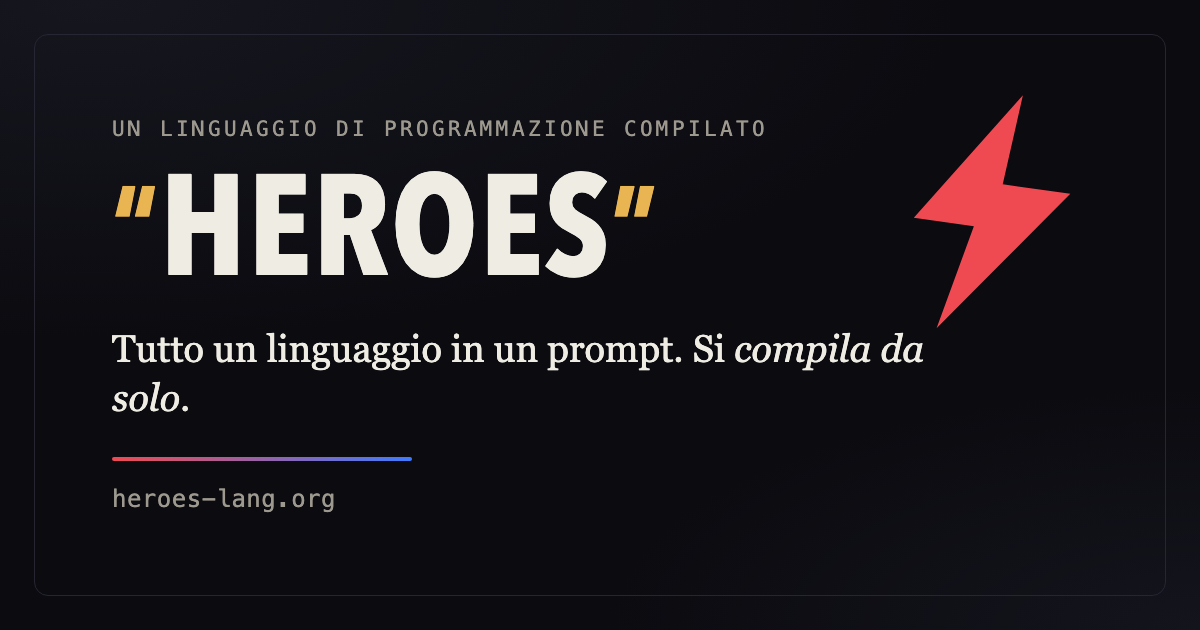
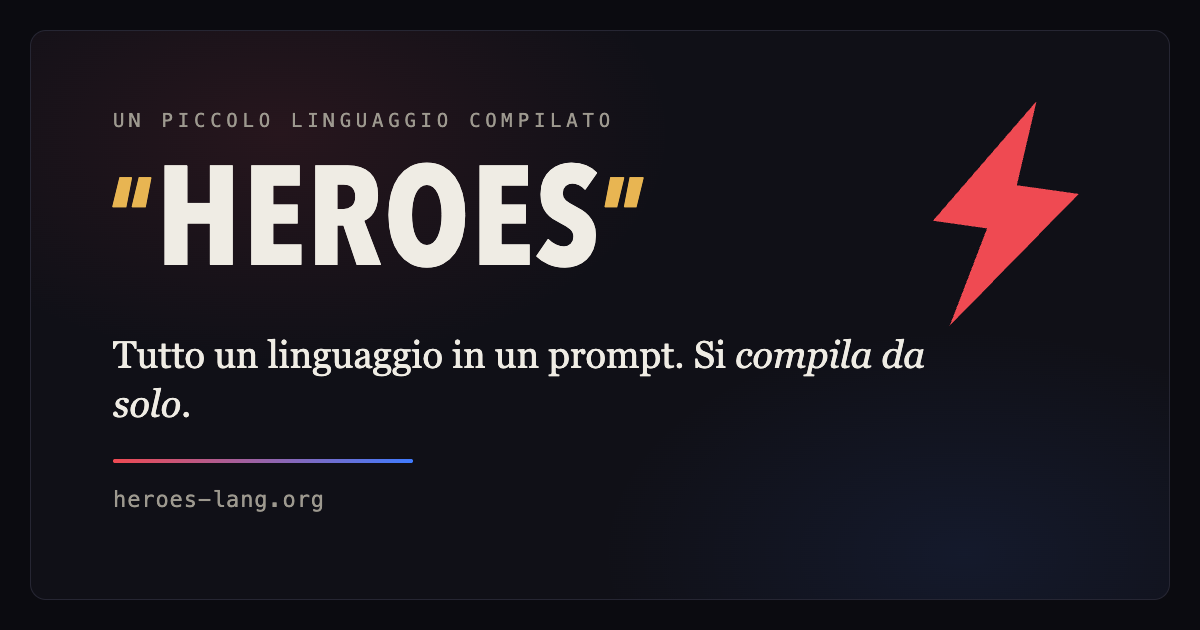
The language says what it is in one line everywhere, and the line is the one the specification already opened with
The subtitle disagreed with itself across the tree, and the author asked which
of five wordings to keep, then asked for the SEO surfaces to come along.
Measured before the choice: four adjectives in about thirty places. The
specification's third line, the README's first paragraph, CLAUDE.md, the title
of design.md and both home meta descriptions said "small compiled"; the home
kicker in both editions, the README banner and its alt said "simple
programming"; the GitHub description said "simple compiled"; the social card
alt said "compiled programming"; the two home share cards had A COMPILED
PROGRAMMING LANGUAGE baked into their pixels; and the page title said neither.
No record had ever ruled on the line.

The author chose "A small compiled language", "Un piccolo linguaggio
compilato" in the Italian edition, on the recommendation: it is the
specification's own line, "small" is the adjective an instrument counts, the
6144-token ceiling with its red test and the line count, where "simple" is an
opinion every language claims of itself, and "compiled" says the category and
the fact in one word. It reverses the kicker decision of 2026-09-09, the
author's own word, and the reversal is the author's. The page title followed,
by the author's choice against the recommendation to keep it for search.

What moved: the kicker and the claim under it on both home pages, where the
claim no longer opens with "A compiled language", so the word is said once,
[…]

diff --git a/site/cards/home.html b/site/cards/home.html
@@ -1,0 +1,82 @@
+<!doctype html>
+<!--
+  The home page's share card, 1200x630, the file `og:image` and `twitter:image`
+  point at for `/` and `/it/` (site/README.md § What a machine that is not a
+  browser gets). It is drawn from the stylesheet's own tokens and its own h1
+  face, and it carries exactly two sentences: the kicker, which is the one
+  subtitle the language carries everywhere, and the README's own h3 line. No
+  number, by site/CLAUDE.md § A number on the page.
+
+  This file is the English card. The Italian card is a copy of it with the two
+  lines swapped at generation time, in a scratch directory, because
+  `records/english` reads every `.html` outside `src/html/it/` and would refuse
+  an Italian source here. The command is in site/README.md, beside the rule.
+
+  Fonts are the system's: Avenir Next Condensed for the name and Georgia for
+  the line, which is what the site itself asks for and never loads.
+-->
+<html lang="en">
+<head>
+<meta charset="utf-8">
+<title>Heroes, a small compiled language</title>
+<style>
+  :root {
+    --bg: #0b0b10; --stage: #101017; --line: #262633;
+    --fg: #efece4; --dim: #9d998f;
+    --red: #ef4a52; --blue: #3f7bff; --gold: #e8b552;
+  }
+  html, body { margin: 0; padding: 0; width: 1200px; height: 630px; overflow: hidden; background: var(--bg); }
+  .plate {
+    position: absolute; left: 30px; top: 30px; width: 1140px; height: 570px;
+    box-sizing: border-box; border: 1.5px solid var(--line); border-radius: 16px;
+    background:
+      radial-gradient(560px 330px at 22% 18%, rgba(239, 74, 82, 0.10), transparent 70%),
+      radial-gradient(520px 320px at 82% 92%, rgba(63, 123, 255, 0.09), transparent 70%),
+      var(--stage);
+    overflow: hidden;
+  }
+  .kicker {
+    position: absolute; left: 82px; top: 80px; margin: 0;
+    font: 19px/1 ui-monospace, 'SF Mono', Menlo, monospace;
+    letter-spacing: 0.25em; text-transform: uppercase; color: var(--dim);
+  }
+  h1 {
+    position: absolute; left: 78px; top: 120px; margin: 0;
+    font-family: 'Avenir Next Condensed', 'HelveticaNeue-CondensedBold', 'Helvetica Neue', 'Roboto Condensed', 'Arial Narrow', sans-serif;
+    font-weight: 700; font-size: 140px; line-height: 1; letter-spacing: 0.01em;
+    text-transform: uppercase; color: var(--fg); white-space: nowrap;
+  }
+  h1 .q { color: var(--gold); font-size: 0.82em; vertical-align: 0.05em; }
+  .promise {
+    position: absolute; left: 82px; top: 300px; margin: 0; width: 820px;
+    font: 400 38px/1.28 Georgia, 'Times New Roman', serif; color: var(--fg);
+  }
+  .promise em { font-style: italic; }
+  .rule {
+    position: absolute; left: 82px; top: 428px; width: 300px; height: 4px; border-radius: 2px;
+    background: linear-gradient(90deg, var(--red), var(--blue));
+  }
+  .domain {
+    position: absolute; left: 82px; top: 458px; margin: 0;
+    font: 22px/1 ui-monospace, 'SF Mono', Menlo, monospace; letter-spacing: 0.04em; color: var(--dim);
+  }
+  .bolt {
+    position: absolute; right: 78px; top: 58px; width: 188px; height: 250px;
+    transform: rotate(8deg);
+  }
+</style>
+</head>
+<body>
+  <div class="plate">
+    <p class="kicker">A small compiled language</p>
+    <h1><span class="q">&ldquo;</span>Heroes<span class="q">&rdquo;</span></h1>
+    <p class="promise">A whole language in one prompt. It <em>compiles itself</em>.</p>
+    <div class="rule"></div>
+    <p class="domain">heroes-lang.org</p>
+    <!-- the Aladdin Sane bolt (1973), red, worn at a jaunty angle -->
+    <svg class="bolt" viewBox="0 0 48 64" aria-hidden="true">
+      <path fill="#ef4a52" d="M 30 2 L8 36 h14 L16 62 L44 24 h-16 z"/>
+    </svg>
+  </div>
+</body>
+</html>

diff --git a/site/src/html/it/index.html b/site/src/html/it/index.html
@@ -6,20 +6,18 @@
         <path fill="var(--blue)" d="M 30 2 L8 36 h14 L16 62 L44 24 h-16 z" transform="translate(3.5,3)"/>
         <path fill="var(--red)"  d="M 30 2 L8 36 h14 L16 62 L44 24 h-16 z"/>
       </svg>
-      <p class="kicker">Un linguaggio di programmazione semplice</p>
+      <p class="kicker">Un piccolo linguaggio compilato</p>
       <h1><span class="q">&ldquo;</span>Heroes<span class="q">&rdquo;</span></h1>
       <p class="promise">
     Decenni di storia dei linguaggi, <em>condensati in meno di 6K token</em>.
   </p>
-      <p class="tagline">Un linguaggio compilato che si legge come Python e ha
-      tutta la potenza del C. Molti degli errori che fanno i modelli, qui,
-      semplicemente non compilano. Niente parentesi graffe, niente punti e
-      virgola. Nessun interprete, nessuna macchina virtuale. Niente null nei
-      tuoi tipi, niente eccezioni. Nessun garbage collector, nessun runtime
-      pesante.
-      Abbastanza maturo da compilare il proprio compilatore. Abbastanza semplice
-      da stare in un prompt. Quello che scrivi diventa un eseguibile
-      standalone.</p>
+      <p class="tagline">Si legge come Python e ha tutta la potenza del C. Molti
+      degli errori che fanno i modelli, qui, semplicemente non compilano. Niente
+      parentesi graffe, niente punti e virgola. Nessun interprete, nessuna
+      macchina virtuale. Niente null nei tuoi tipi, niente eccezioni. Nessun
+      garbage collector, nessun runtime pesante. Abbastanza maturo da compilare
+      il proprio compilatore. Abbastanza piccolo da stare in un prompt. Quello
+      che scrivi diventa un eseguibile standalone.</p>
       <div class="cta">
         <a class="primary" href="/it/spec/">Leggi la specifica</a>
         <a class="ghost" href="/it/examples/">Guarda il codice</a>

diff --git a/site/src/html/index.html b/site/src/html/index.html
@@ -6,18 +6,17 @@
         <path fill="var(--blue)" d="M 30 2 L8 36 h14 L16 62 L44 24 h-16 z" transform="translate(3.5,3)"/>
         <path fill="var(--red)"  d="M 30 2 L8 36 h14 L16 62 L44 24 h-16 z"/>
       </svg>
-      <p class="kicker">A simple programming language</p>
+      <p class="kicker">A small compiled language</p>
       <h1><span class="q">&ldquo;</span>Heroes<span class="q">&rdquo;</span></h1>
       <p class="promise">
     Decades of programming-language history, <em>condensed into fewer than 6K tokens</em>.
   </p>
-      <p class="tagline">A compiled language that reads like Python and has all
-      the power of C. Many of the mistakes models make simply don&rsquo;t compile
-      here. No braces, no semicolons. No interpreter, no virtual machine. No
-      null in your own types, no exceptions. No garbage collector, no heavy
-      runtime. Mature
-      enough to compile its own compiler. Simple enough to fit in a prompt. What
-      you write becomes a standalone executable.</p>
+      <p class="tagline">It reads like Python and has all the power of C. Many
+      of the mistakes models make simply don&rsquo;t compile here. No braces, no
+      semicolons. No interpreter, no virtual machine. No null in your own types,
+      no exceptions. No garbage collector, no heavy runtime. Mature enough to
+      compile its own compiler. Small enough to fit in a prompt. What you write
+      becomes a standalone executable.</p>
       <div class="cta">
         <a class="primary" href="/spec/">Read the specification</a>
         <a class="ghost" href="/examples/">See the code</a>

diff --git a/site/README.md b/site/README.md
@@ -99,7 +99,7 @@ answers at drops the extension and gains a slash, so `why.html` is `/why/` and
 | source file | what it is |
 |---|---|
 | `index.html` | the landing: hero, one sample, three cards, one real diagnostic, the claim. Short on purpose, and measured: 758 words where it was 1,979. |
-| | The hero says **&ldquo;a programming language&rdquo;** above the name, because a visitor who has never heard of Heroes should not have to infer the category (author instruction 2026-08-17). It said *compiled* too until 2026-09-08, when the claim under the name started with *A compiled language* and the word would have been said twice in two lines; the category is still stated before the name, and *compiled* is the first thing the claim says. Its code panel shows **working code, never a diagnostic** — *&ldquo;opening a language's site on an error is ugly&rdquo;*, same date. The errors have their own page. In that panel the `bar` names the file, so the figure carries no second caption. |
+| | The hero says **&ldquo;a programming language&rdquo;** above the name, because a visitor who has never heard of Heroes should not have to infer the category (author instruction 2026-08-17). It said *compiled* too until 2026-09-08, when the claim under the name started with *A compiled language* and the word would have been said twice in two lines; the category is still stated before the name, and *compiled* is the first thing the claim says. **Since 2026-09-10 the kicker is the one subtitle the language carries everywhere**, *A small compiled language*, by author decision among the five wordings then in use across the specification, the README and its banner, the share cards, the meta tags and the GitHub description: it is the line the specification opens with, and *small* is the adjective an instrument counts, the ceiling and the line count, where *simple*, the author's own word of 2026-09-09, was an opinion. With *compiled* back above the name, the claim under it no longer opens with *A compiled language*, so the word is said once; its closing line says *small enough to fit in a prompt*, the measured half of the old promise. The page title, the card alt and `llms.txt` say the same line. Its code panel shows **working code, never a diagnostic** — *&ldquo;opening a language's site on an error is ugly&rdquo;*, same date. The errors have their own page. In that panel the `bar` names the file, so the figure carries no second caption. |
 | | **The three figure cards carry only at-a-glance numbers a stranger parses without context** (author instruction 2026-08-25: *&ldquo;put only at-a-glance figures that are easy to understand&rdquo;*). The mutation measurement is not one &mdash; *&ldquo;91% against 0%&rdquo;* needed three sentences of setup and still read as nothing &mdash; so the thesis table lives on `errors.html` only, and the home's § The claim explains the method in prose and links it. The cards are 231 lines · 0 null/exceptions/GC · 1 hash. |
 | | The promise line under the name **leans on something that is not an error** (author instruction 2026-08-24: *&ldquo;change the claim on the home page so it leans on something that is not an error&rdquo;*): it read *&ldquo;Small enough to fit in a prompt, real enough to compile itself&rdquo;*, both halves measured. The thesis has not left the page — it closed the tagline and it still owns § The claim — it just no longer leads. Rewritten by author instruction 2026-09-08, to read as a headline, to say on the line itself what a prompt is, and to name what the language is, compiled and without frills, for the reader who arrives from a link expecting one more language written by a model: *&ldquo;The whole language fits in one short prompt, the text you give a model when you ask it to write code. It compiles to C, has no frills, and the compiler is written in Heroes and compiles itself.&rdquo;* Every clause is a fact a reader can check on this site. The author's brief also offered *fast*, and the line does not say it: no page here measures a program's speed, the only timed fact on the site is the compiler's own build, and an adjective without a number is the first thing that reader would ask to see proved. The line names the mechanism, compiled to C, and leaves the adjective to them. **That line lasted a day.** The author read it as explaining to visitors what they already know, went through two rounds of proposals, and wrote the line themself, in Italian; the English is its translation: *&ldquo;Decades of programming-language history, condensed into fewer than 4,096 tokens. A compiled language, mature enough to compile itself. No interpreter, no virtual machine: underneath, all the power of C.&rdquo;* The token figure is the specification's ceiling from design.md §1.6, which a test holds on every commit; the build reads it from that test and checks that both home pages spell it, so the sentence cannot go stale the way a count would. The author's brief said bytes, and the measurement said tokens, 3,903 of them today against 12,517 bytes, so the line says tokens. The self-hosting half is *mature enough to compile itself*, which says the thing without the term; three earlier cuts, *written in the language itself, compiles itself*, *written in the language it compiles* and *compile its own compiler*, were read aloud and the author set each aside for its sound (2026-09-08). The word *prompt* left the line with the author's version, and the `curl` line under the buttons still says where the prompt is. Three red emphases, placed by the author: the ceiling, *compile itself*, and the closing *underneath, all the power of C*; the rest of the line is already bold by design, so red is the only emphasis the slot has. **The number in the line moved once, to *fewer than 6K tokens*, by author decision**: the ceiling it quoted had been measured on a tokenizer that was not the model's, and re-measured on the model's own through Claude's token-counting API the specification was over it. The ceiling is 6,144 and carries its instrument; the line says it the author's way, `6K`, which the build derives from the suite (`ceilingK` in `claims.ts`) and refuses to print if the ceiling ever stops being a whole number of K. The same K form is asserted on the two why pages and the two specification pages, so the six sentences cannot disagree with the suite or with each other. |
 | `why.html` | the founding constraint, the thesis, the cost formula, the rules, the objections |
@@ -351,8 +351,16 @@ ONE page, and a card that says only the name of the site tells the reader
 nothing about the page they were sent. **No card carries a number**, by § A
 number on the page in `site/CLAUDE.md`: a measured number inside an image cannot
 be checked by whoever reads it, which is why the examples card does not say how
-many programs there are. The generator is not in the repository; regenerating a
-card is a build of one HTML file and a headless screenshot.
+many programs there are. Regenerating a card is a build of one HTML file and a
+headless screenshot. **The generator was not in the repository until
+2026-09-11**, when the home card had to be redrawn for the one subtitle and was
+rebuilt from the pixels; the home card's template is `site/cards/home.html`
+since then, English only, and the Italian card is a copy of it with its two
+lines swapped at generation time, because `records/english` reads every `.html`
+outside `src/html/it/` and would refuse an Italian source under `cards/`. The
+command, from the repository root:
+`"/Applications/Google Chrome.app/Contents/MacOS/Google Chrome" --headless=new --hide-scrollbars --window-size=1200,630 --screenshot=site/public/images/card/home-en.png "file://$PWD/site/cards/home.html"`.
+The other eighteen cards have no source in the repository.
 
 **The sitemap's four tiers** are this site's own ranking of itself: the two
 landings at 1.0, the pages the nav points at at 0.8, the example programs at

diff --git a/DESIGN-LOG.md b/DESIGN-LOG.md
@@ -842,3 +842,35 @@ puts no names in its type and can have them inverted in silence, and a user's ow
 generic higher-order function whose callback type names nothing is unchecked.
 Neither is a defect against the rule; both are its edge. `docs/work/DECIDE.md` is
 at OPEN: 0 and `docs/work/DEFECTS.md` has been at OPEN: 0 since M-labelled-types.
+
+2026-09-11 · **One subtitle, everywhere the language describes itself: *A small
+compiled language*, and *Un piccolo linguaggio compilato* in the Italian
+edition** (**author decision**, taken 2026-09-10 out of the session that asked
+which of five wordings to keep, applied and pushed 2026-09-11). Measured before
+the choice: four adjectives were in service across about thirty places. The
+specification's third line, the README's first paragraph, CLAUDE.md, the title
+of design.md and both home meta descriptions said *small compiled*; the home
+kicker in both editions, the README banner and its alt said *simple
+programming*; the GitHub description said *simple compiled*; the social card alt
+said *compiled programming*; the two home share cards had *A COMPILED
+PROGRAMMING LANGUAGE* baked into their pixels; and the page title said neither.
+The choice is the specification's own line, and the reasons are on record.
+*Small* is the adjective an instrument counts, the 6144-token ceiling with its
+red test and the line count, where *simple* is an opinion every language claims
+of itself. *Compiled* is the fact that separates Heroes from Python, which it
+reads like, and it states the category by itself, so *programming* adds a word
+and no information. It reverses the kicker decision of 2026-09-09, *A simple
+programming language*, which was the author's word and is the author's to
+reverse. The page title followed, by the author's choice against the
+recommendation to keep it for search. Two consequences on the home page: the
+claim under the name no longer opens with *A compiled language*, so the word is
+said once, and its close reads *small enough to fit in a prompt*, the measured
+half of the old promise line. The home share cards were redrawn from the
+pixels, and their template is in the repository for the first time,
+`site/cards/home.html`, English only, because `records/english` reads every
+`.html` outside the Italian edition. Left as they are, on purpose: the frozen
+measurement prompt `harness/prompts/first-try.md`, which says *a small
+programming language* and whose change would open a new series; the quotations
+of the original brief in design.md §1.11 and journal 012; and the README's h3
+hook, which is not the subtitle. No panel sat: a subtitle is copy and not
+language, and the specification did not change.

diff --git a/docs/work/DONE.md b/docs/work/DONE.md
@@ -4032,3 +4032,20 @@ Was | author instruction, 2026-08-14 | **A runtime function that joins two path 
     are different types, and a user's own generic higher-order function. Neither
     is a defect against the rule; both are the rule's edge, written down.
 
+- [x] **author decision 2026-09-10, one subtitle** | the language describes itself with one line everywhere, *A small compiled language*, chosen among the five wordings that were in use, and applied to the home page in both editions, the page title, the card alt, the model-facing text, the README banner and its alt, the two home share cards and the GitHub description | `DESIGN-LOG.md` 2026-09-11, `site/README.md` § What is where (the hero row), `site/.claude/skills/site-panel/SKILL.md`
+
+    **Origin:** the session of 2026-09-10 that asked which of five subtitles to
+    keep, and the author's second instruction the same day to bring the SEO
+    surfaces along: the page title, the share cards, the sitemap, the text a
+    model reads. Measured first: four adjectives in about thirty places, and no
+    record had ever ruled on the line. Recommended and taken: the specification's
+    own third line, because *small* is the adjective an instrument counts, the
+    ceiling and the line count, and *compiled* says the category and the fact in
+    one word. It reverses the kicker decision of 2026-09-09, the author's own
+    word, and the reversal is the author's. The sitemap needed no edit: its dates
+    come from git, so the two home pages take the date of the commit that carries
+    this. The home share cards were redrawn and their template entered the
+    repository, `site/cards/home.html`. Left on purpose: the frozen measurement
+    prompt `harness/prompts/first-try.md`, the quotations of the original brief,
+    and the README's h3 hook, which is not the subtitle.
+

diff --git a/site/.claude/skills/site-panel/SKILL.md b/site/.claude/skills/site-panel/SKILL.md
@@ -60,13 +60,17 @@ positioned to see.
   bootstrap retirement, no invented numbers, no duration claims.
 - Compiler output is verbatim; every code block is a slice of a real
   `examples/` file (`data-src`/`data-lines`), regenerated from the file.
-- The hero shows working code, never a diagnostic; says "a compiled
-  programming language" before the name; names LLMs plainly (author,
-  2026-08-18). A diagnostic may appear in the first value prop UNDER the hero,
-  and one does. **The kicker is "A simple programming language", the author's
-  word (decision 2026-09-09, asked by two seats), and "compiled" arrives in the
-  claim under the name**: a seat that asks to move it up is re-arguing a
-  decision, not finding a defect.
+- The hero shows working code, never a diagnostic; states the category before
+  the name; names LLMs plainly (author, 2026-08-18). A diagnostic may appear in
+  the first value prop UNDER the hero, and one does. **The kicker is "A small
+  compiled language", the one subtitle the language carries everywhere** (author
+  decision 2026-09-10, chosen among the five wordings that were in use: the
+  specification's own line, and the measured adjective, since the ceiling and
+  the line count are what "small" rests on). It replaced "A simple programming
+  language", the author's word of 2026-09-09, which two seats had asked for;
+  the reversal is the author's. The claim under the name no longer opens with
+  "A compiled language", so the word is said once. A seat that asks to change
+  either is re-arguing a decision, not finding a defect.
 - **The first half of the hero claim, "Decades of programming-language
   history", is the author's thesis sentence and not a measurable claim**
   (decision 2026-09-09, on the marketing seat's finding). The second half is

diff --git a/README.md b/README.md
@@ -2,7 +2,7 @@
   <picture>
     <source media="(prefers-color-scheme: dark)" srcset="docs/assets/banner-dark.svg">
     <source media="(prefers-color-scheme: light)" srcset="docs/assets/banner-light.svg">
-    <img src="docs/assets/banner-light.svg" alt="Heroes, a simple programming language.">
+    <img src="docs/assets/banner-light.svg" alt="Heroes, a small compiled language.">
   </picture>
 </p>
 
